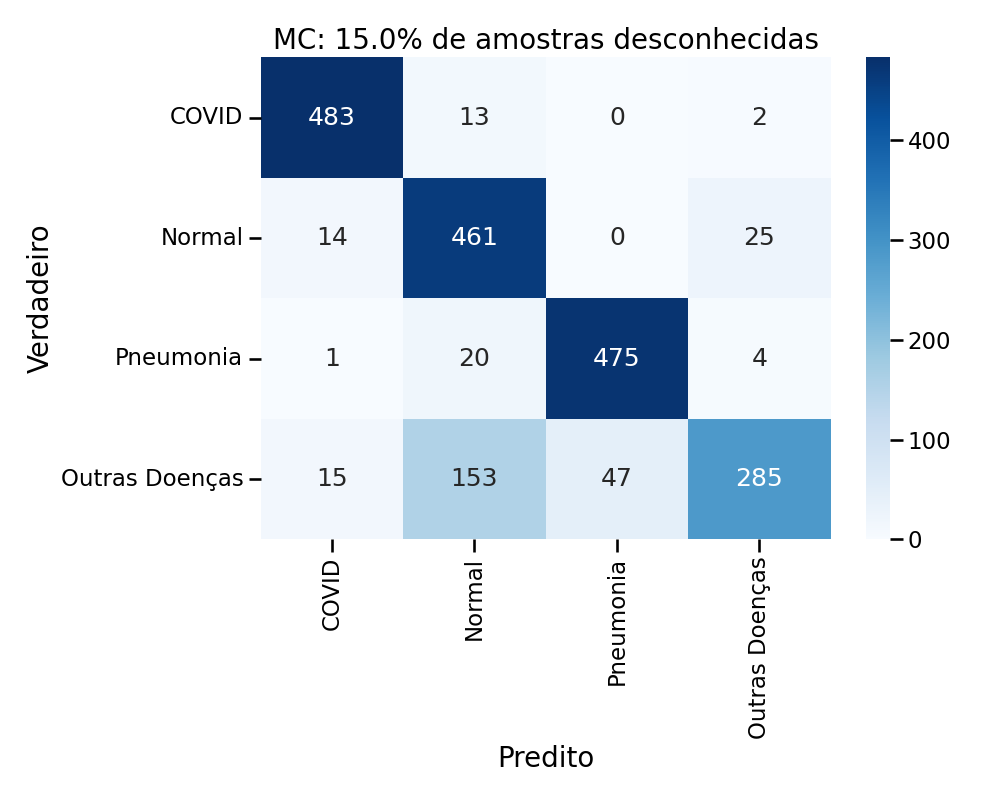
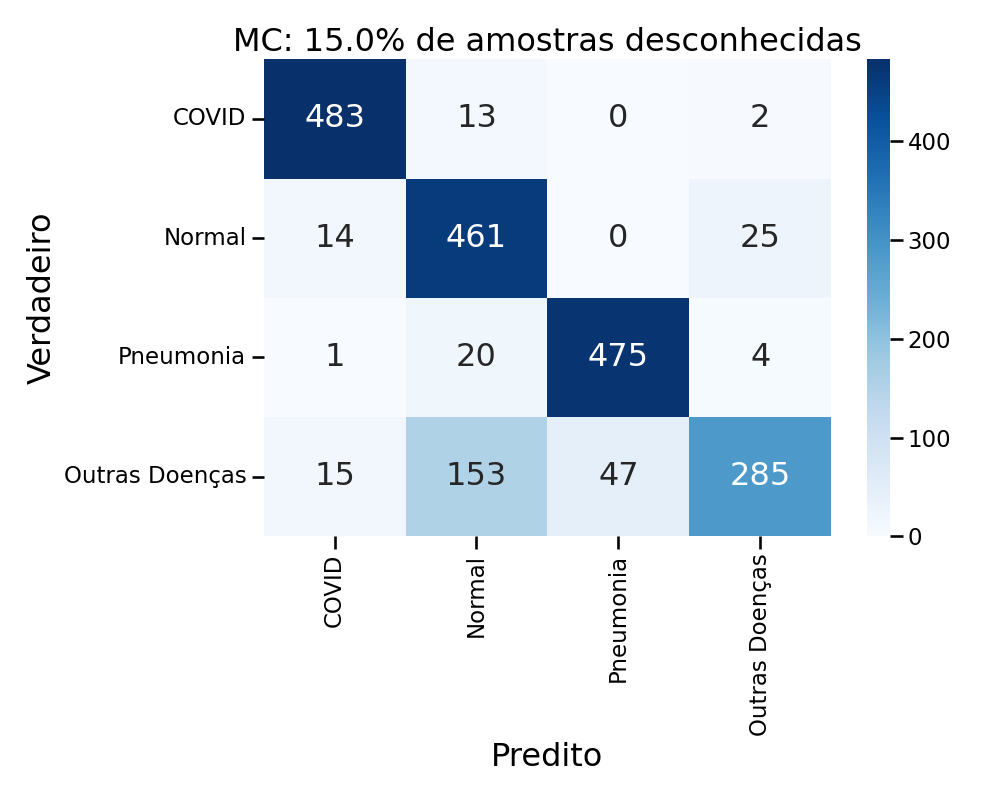
last things

diff --git a/cmd/experiments_remake.py b/cmd/experiments_remake.py
@@ -76,13 +76,13 @@ for percentage in percents_of_unknown_samples:
         json.dump(stats, f)
 
     # Plotando a matriz de confusão
-    plt.rc('font', size=14)
+    plt.rc('font', size=23)
     sns.set_context('talk')
     plt.figure(figsize=(10, 8))
-    sns.heatmap(conf_matrix, annot=True, fmt='g', cmap='Blues', xticklabels=classes, yticklabels=classes, annot_kws={"size": 18})
-    plt.xlabel('Predito', fontsize=20)
-    plt.ylabel('Verdadeiro', fontsize=20)
-    plt.title(f'MC: {round(percentage / 4, 1)}% de amostras desconhecidas', fontsize=20)
+    sns.heatmap(conf_matrix, annot=True, fmt='g', cmap='Blues', xticklabels=classes, yticklabels=classes, annot_kws={"size": 23})
+    plt.xlabel('Predito', fontsize=23)
+    plt.ylabel('Verdadeiro', fontsize=23)
+    plt.title(f'MC: {round(percentage / 4, 1)}% de amostras desconhecidas', fontsize=23)
     plt.tight_layout()
     plt.savefig(os.path.join(EXPERIMENT_STATS_PATH, f'retrained_confusion_matrix_{percentage}.png'))
 

diff --git a/cmd/experiments.py b/cmd/experiments.py
@@ -82,13 +82,13 @@ for percentage in percents_of_unknown_samples:
         json.dump(stats, f)
 
     # Plotando a matriz de confusão
-    plt.rc('font', size=14)
+    plt.rc('font', size=23)
     sns.set_context('talk')
     plt.figure(figsize=(10, 8))
-    sns.heatmap(conf_matrix, annot=True, fmt='g', cmap='Blues', xticklabels=classes, yticklabels=classes, annot_kws={"size": 18})
-    plt.xlabel('Predito', fontsize=20)
-    plt.ylabel('Verdadeiro', fontsize=20)
-    plt.title(f'MC: {round(percentage / 4, 1)}% de amostras desconhecidas', fontsize=20)
+    sns.heatmap(conf_matrix, annot=True, fmt='g', cmap='Blues', xticklabels=classes, yticklabels=classes, annot_kws={"size": 23})
+    plt.xlabel('Predito', fontsize=23)
+    plt.ylabel('Verdadeiro', fontsize=23)
+    plt.title(f'MC: {round(percentage / 4, 1)}% de amostras desconhecidas', fontsize=23)
     plt.tight_layout()
     plt.savefig(os.path.join(EXPERIMENT_STATS_PATH, f'confusion_matrix_{percentage}.png'))
 

diff --git a/cmd/test_model_retrained.py b/cmd/test_model_retrained.py
@@ -24,14 +24,15 @@ classes = ['COVID', 'Normal', 'Pneumonia', 'Outras Doenças']
 
 PATH_ROOT = os.getenv('PATH_ROOT')
 TEST_STATS_PATH = os.getenv('TEST_STATS_PATH')
-TEST_DATASET_PATH = os.getenv('TEST_DATASET_PATH')
+# TEST_DATASET_PATH = os.getenv('TEST_DATASET_PATH')
+TEST_40_DATASET_PATH = os.getenv('EXPERIMENTS_DATASET_PATH')
 
 tax_samples = float(sys.argv[1])
 
 # ================================================
 
-test_images = np.load(os.path.join(TEST_DATASET_PATH, 'test_images.npy'))
-test_labels = np.load(os.path.join(TEST_DATASET_PATH, 'test_labels.npy'))
+test_images = np.load(os.path.join(TEST_40_DATASET_PATH, 'experiment_images_40.0_infiltration.npy'))
+test_labels = np.load(os.path.join(TEST_40_DATASET_PATH, 'experiment_labels_40.0_infiltration.npy'))
 
 model = tf.keras.models.load_model(os.path.join(PATH_ROOT, 'model', 'cnn_model_retrained.h5'))
 
